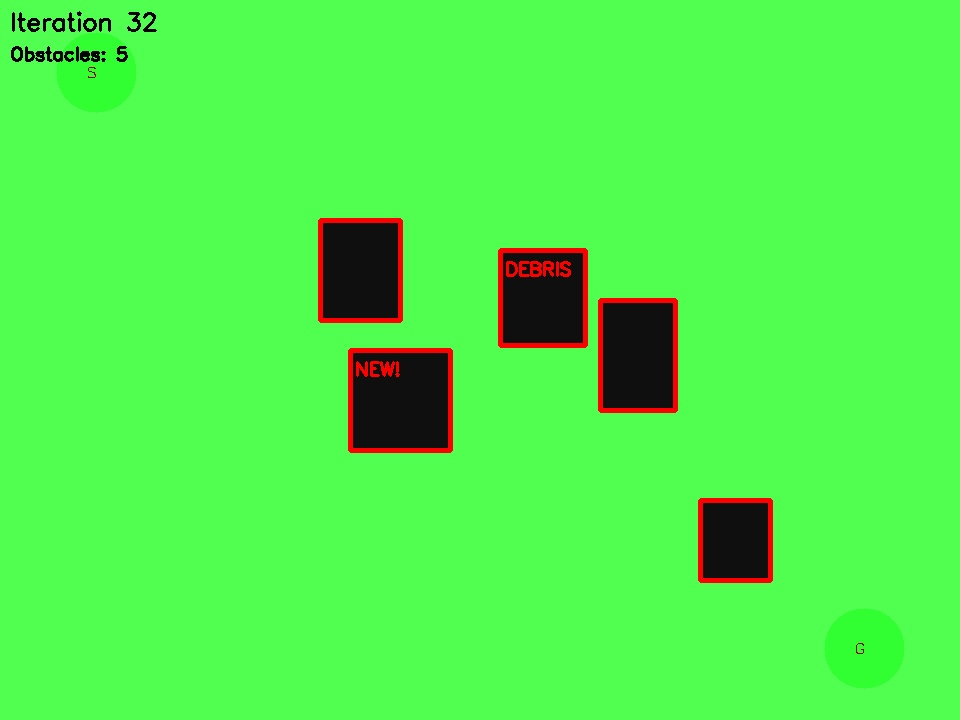
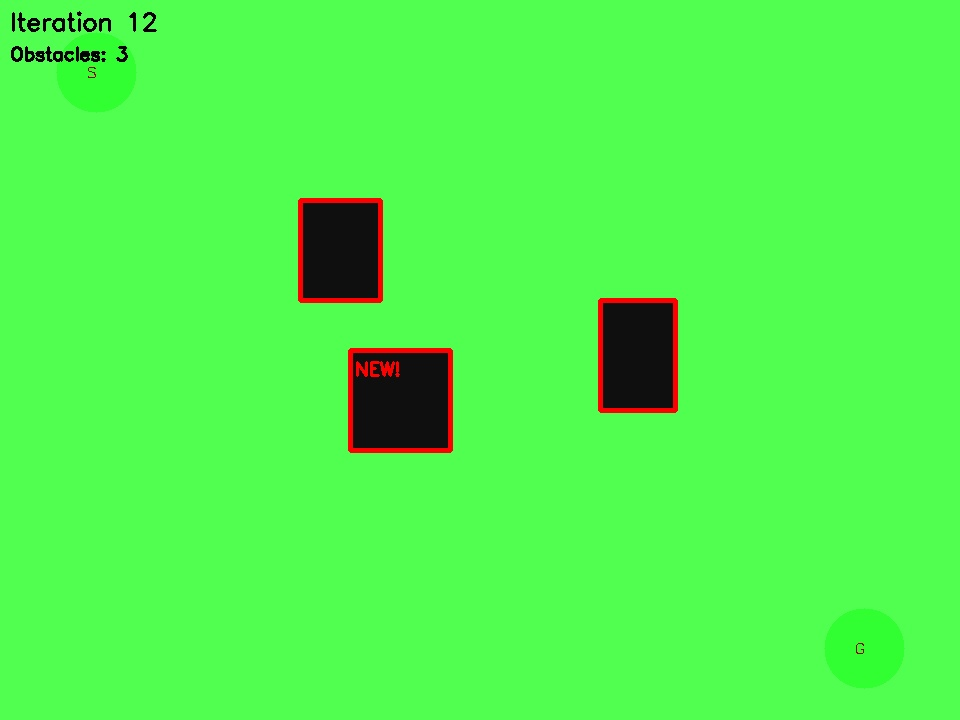
Reverted to working model

diff --git a/src/dynamic_scene_generator.py b/src/dynamic_scene_generator.py
@@ -67,19 +67,19 @@ class DynamicSceneGenerator:
             (0, 'add_obstacle', {'pos': (600, 300), 'size': (75, 110)}),
             
             # New obstacle appears at iteration 5
-            (2, 'add_obstacle', {'pos': (350, 350), 'size': (100, 100), 'label': 'NEW!'}),
+            (5, 'add_obstacle', {'pos': (350, 350), 'size': (100, 100), 'label': 'NEW!'}),
             
             # Clear a path at iteration 10
-            (4, 'remove_obstacle', {'index': 1}),
+            (10, 'remove_obstacle', {'index': 1}),
             
             # Add another obstacle at iteration 15
-            (6, 'add_obstacle', {'pos': (500, 250), 'size': (85, 95), 'label': 'DEBRIS'}),
+            (15, 'add_obstacle', {'pos': (500, 250), 'size': (85, 95), 'label': 'DEBRIS'}),
             
             # Move an obstacle at iteration 20
-            (8, 'move_obstacle', {'index': 0, 'new_pos': (320, 220)}),
+            (20, 'move_obstacle', {'index': 0, 'new_pos': (320, 220)}),
             
             # More obstacles appear at iteration 25
-            (10, 'add_obstacle', {'pos': (700, 500), 'size': (70, 80)}),
+            (25, 'add_obstacle', {'pos': (700, 500), 'size': (70, 80)}),
         ]
         
         return events
